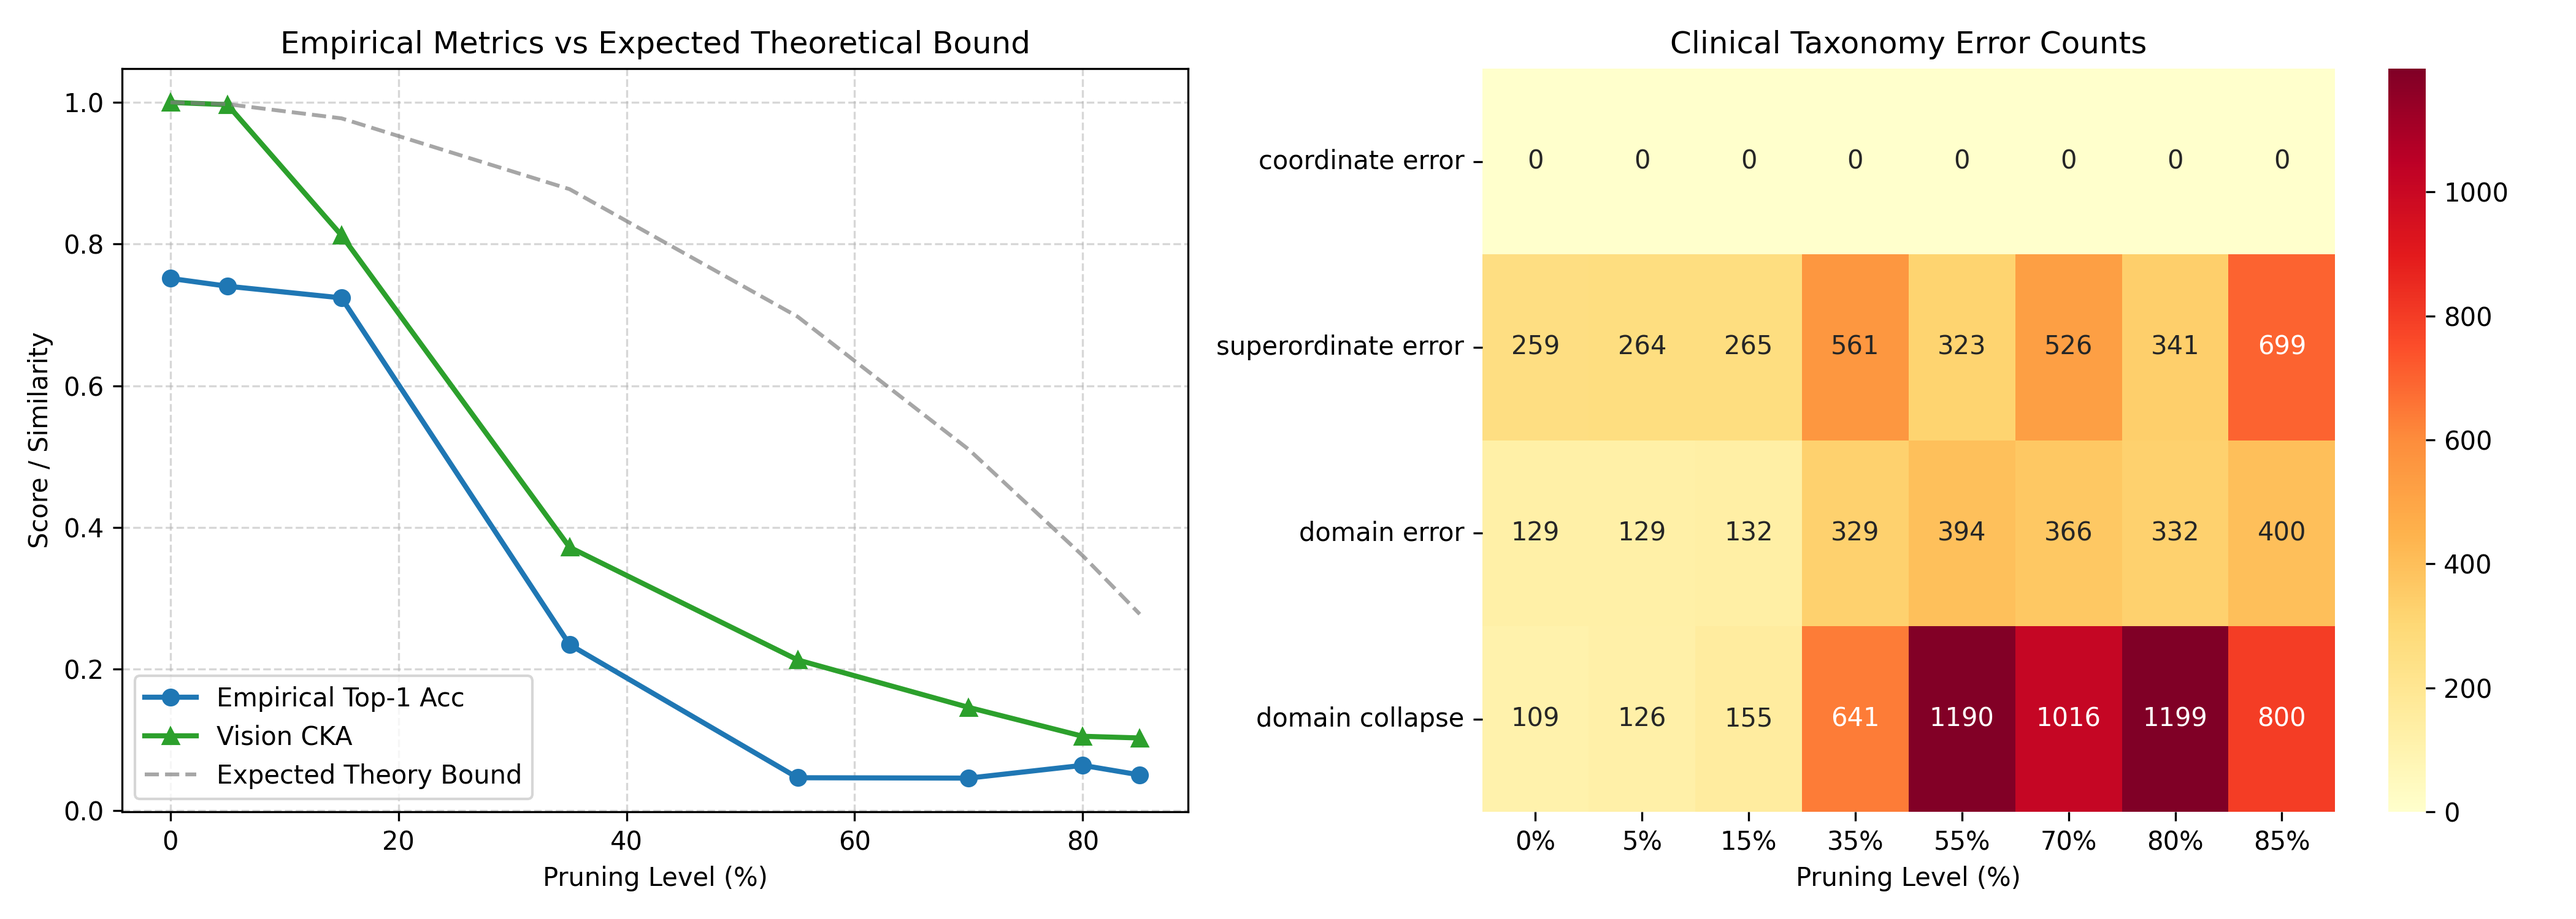
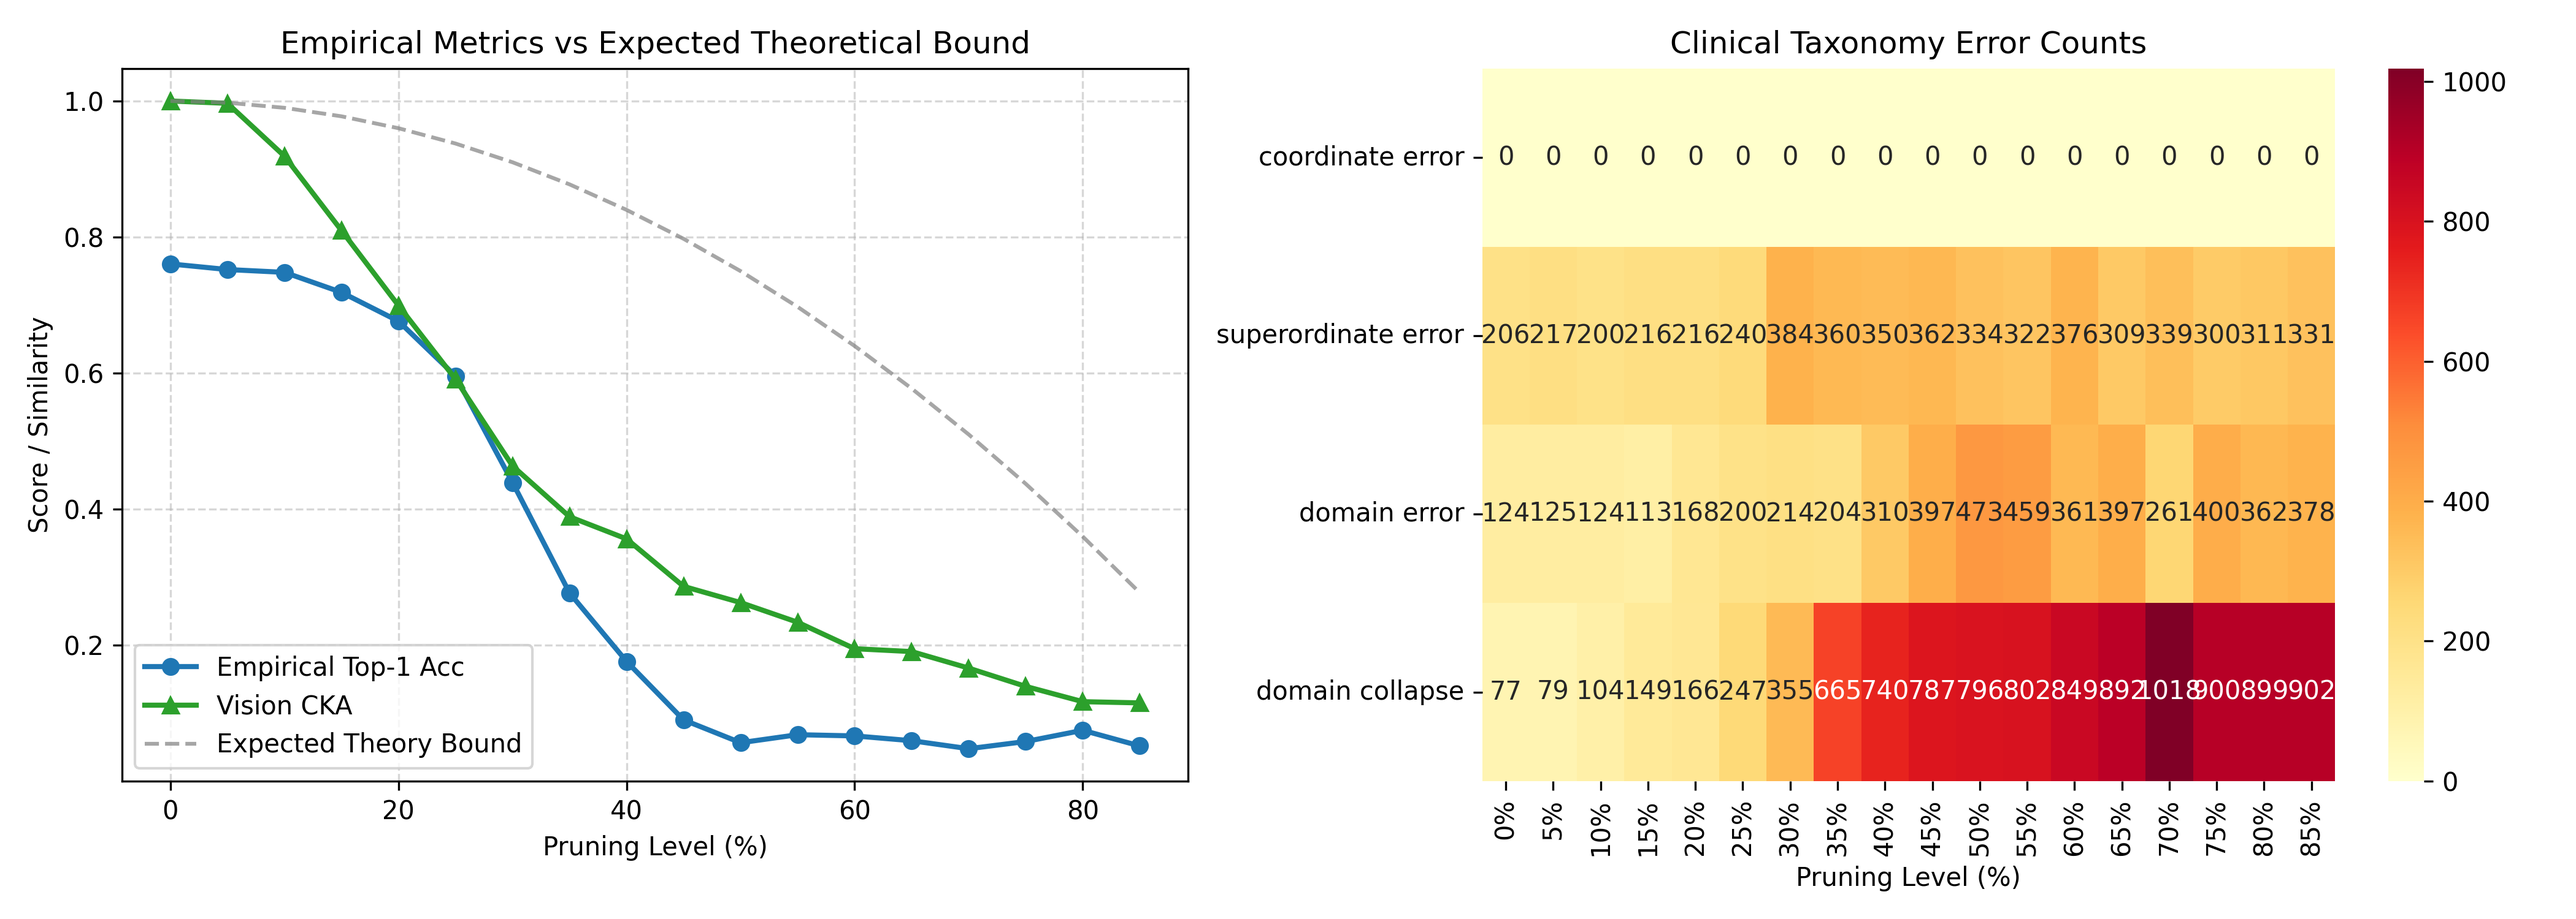
scaling

diff --git a/run_pipeline.py b/run_pipeline.py
@@ -16,13 +16,12 @@ from src.generate_analysis_plots import (
     plot_concept_retrieval_heatmap,
     plot_hierarchical_breakdown_suite,
     plot_signal_noise_distribution_shift,
-    # plot_target_rank_waterfall,
 )
 from src.generate_tsne import generate_joint_hierarchical_tsne
 from src.joint_evaluator import JointSpaceEvaluator
 
-# Refined 8-stage pruning grid for Semantic Dementia evaluation
-PRUNING_LEVELS = [0.00, 0.05, 0.15, 0.35, 0.55, 0.70, 0.80, 0.85]
+# 18-stage pruning schedule (5% increments from 0% to 85%)
+PRUNING_LEVELS = [round(i * 0.05, 2) for i in range(18)]
 
 
 def run_joint_pipeline(
@@ -31,6 +30,7 @@ def run_joint_pipeline(
     print("=" * 60)
     print(" RUNNING MULTIMODAL SEMANTIC DEMENTIA EVALUATION PIPELINE ")
     print("=" * 60)
+    print(f"[*] Pruning Grid ({len(PRUNING_LEVELS)} stages): {PRUNING_LEVELS}")
 
     evaluator = JointSpaceEvaluator(
         sample_frac=sample_frac,
@@ -50,9 +50,8 @@ def run_joint_pipeline(
     plot_category_breakdown_suite(results_df)
     plot_hierarchical_breakdown_suite(results_df)
     plot_signal_noise_distribution_shift(
-        evaluator, pruning_levels=[0.00, 0.05, 0.15, 0.35, 0.55, 0.70, 0.80, 0.85]
+        evaluator, pruning_levels=PRUNING_LEVELS
     )
-    # plot_target_rank_waterfall(evaluator, pruning_levels=PRUNING_LEVELS)
     plot_concept_retrieval_heatmap(evaluator, pruning_levels=PRUNING_LEVELS)
     generate_joint_hierarchical_tsne(evaluator, pruning_levels=PRUNING_LEVELS)
 
